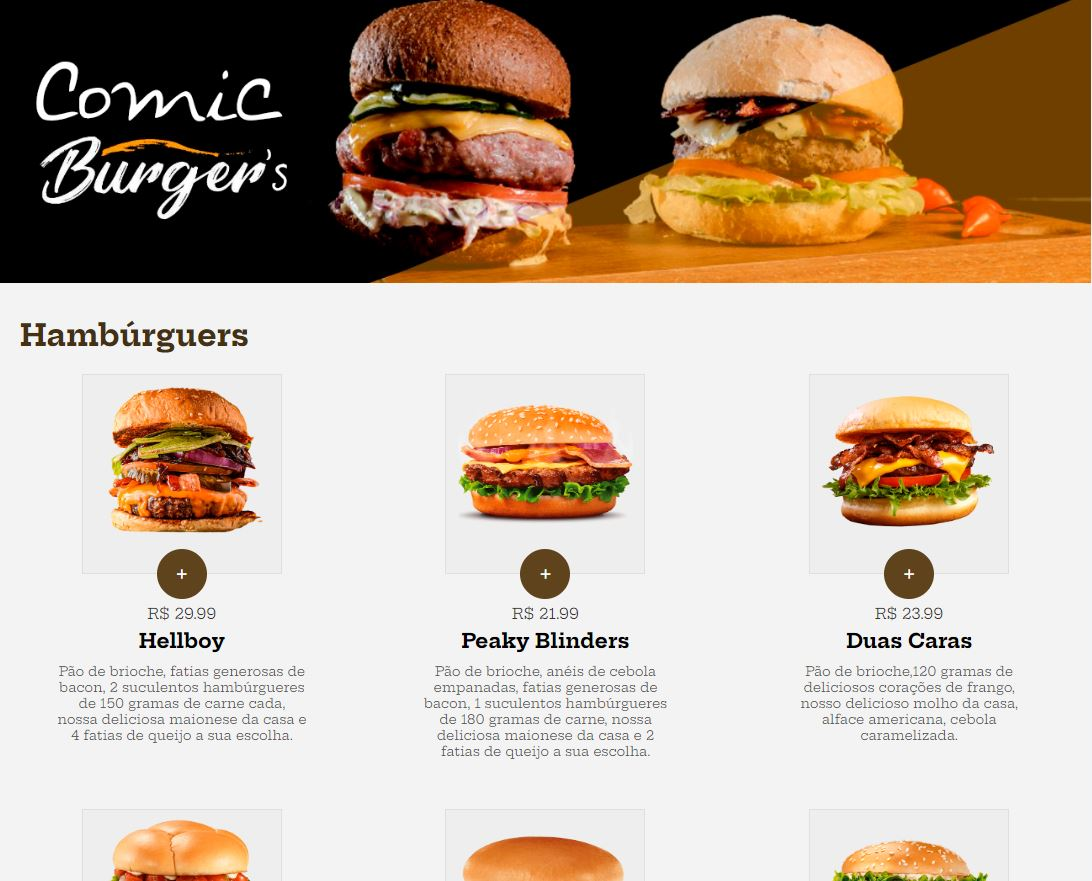
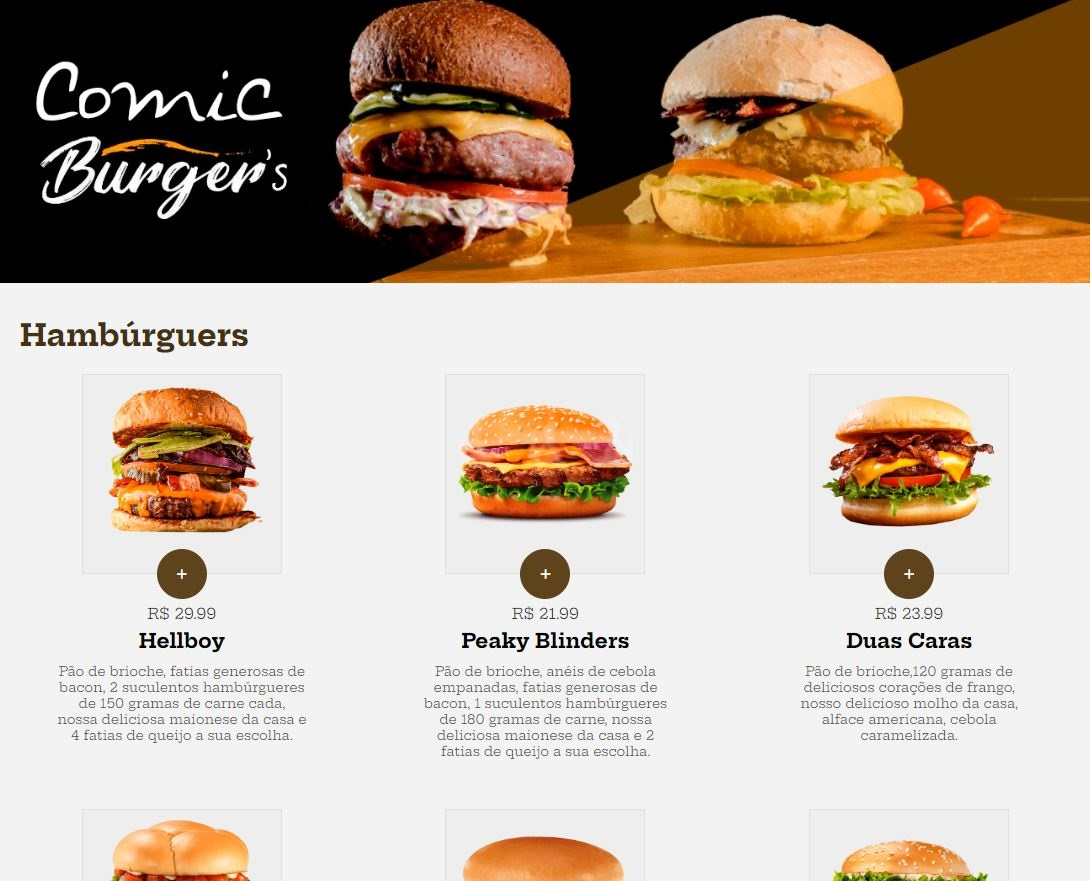
Ajuste imagem preview e README.MD

diff --git a/README.md b/README.md
@@ -1,6 +1,6 @@
 # Comic Burger's Hamburgueria
 
-![preview](./.github/preview.JPG)
+![preview](./.github/preview.jpg)
 
 Projeto de estudos em JavaScript, onde a ideia era criar uma aplicação simulando uma hamburgueria temática, de maneira responsiva e utilizando a trindade HTML/CSS/JS. E assim nasceu a Comic Burger's !
 
